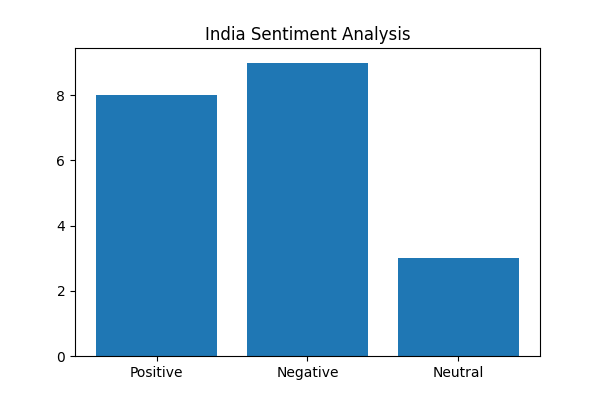
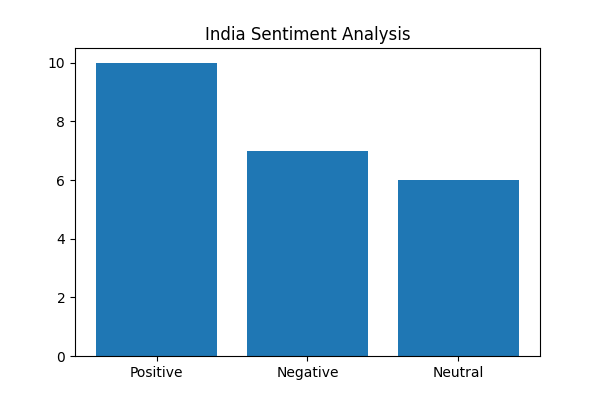
commit

diff --git a/extension/content.js b/extension/content.js
@@ -1,5 +1,26 @@
 console.log("FairSpeakAI loaded");
 
+// 🔥 INDIA FILTER (NEW)
+const indiaKeywords = [
+    "india", "indian", "modi", "delhi", "mumbai",
+    "bangalore", "hyderabad", "chennai", "kolkata"
+];
+
+const indiaHashtags = [
+    "#india", "#modi", "#indiapolitics",
+    "#indiafirst", "#bharat", "#indianarmy", "#indiavspak"
+];
+
+function isIndiaRelated(text) {
+    text = text.toLowerCase();
+
+    const keywordMatch = indiaKeywords.some(k => text.includes(k));
+    const hashtagMatch = indiaHashtags.some(h => text.includes(h));
+
+    return keywordMatch || hashtagMatch;
+}
+
+
 // Track processed tweets
 const processedTweets = new WeakSet();
 
@@ -9,7 +30,7 @@ let positive = 0;
 let neutral = 0;
 let negative = 0;
 
-// 🚀 Create dashboard UI (IMPROVED)
+// 🚀 Dashboard UI
 const dashboard = document.createElement("div");
 dashboard.style.position = "fixed";
 dashboard.style.top = "10px";
@@ -21,7 +42,7 @@ dashboard.style.borderRadius = "12px";
 dashboard.style.zIndex = "9999";
 dashboard.style.fontSize = "14px";
 dashboard.style.boxShadow = "0 0 10px rgba(0,0,0,0.5)";
-dashboard.innerHTML = "🔥 FairSpeakAI Loading...";
+dashboard.innerHTML = "🌍 FairSpeak AI (India Mode)...";
 document.body.appendChild(dashboard);
 
 // 🔄 Update dashboard
@@ -31,15 +52,15 @@ function updateDashboard() {
     const neu = total ? ((neutral / total) * 100).toFixed(1) : 0;
 
     dashboard.innerHTML = `
-    <b>🔥 FairSpeak AI</b><br>
+    <b>🌍 India Sentiment</b><br>
     Total: ${total} <br>
-    🔴 Toxic: ${n}% <br>
+    🔴 Negative: ${n}% <br>
     🟡 Neutral: ${neu}% <br>
     🟢 Positive: ${p}%
     `;
 }
 
-// 🧠 API CALL (WITH DELAY CONTROL)
+// 🧠 Queue system
 let queue = [];
 let isProcessing = false;
 
@@ -51,7 +72,7 @@ function processQueue() {
 
     analyzeTweet(element, text).finally(() => {
         isProcessing = false;
-        setTimeout(processQueue, 300); // 🔥 control API speed
+        setTimeout(processQueue, 300);
     });
 }
 
@@ -118,11 +139,15 @@ function processTweets() {
         if (!tweetElement) return;
 
         if (processedTweets.has(tweetElement)) return;
-        processedTweets.add(tweetElement);
 
         const text = tweet.innerText;
 
-        // 🔥 Add to queue instead of direct call
+        // 🔥 INDIA FILTER (MAIN LOGIC)
+        if (!isIndiaRelated(text)) return;
+
+        processedTweets.add(tweetElement);
+
+        // Add to queue
         queue.push({ element: tweet, text });
     });
 
@@ -132,17 +157,15 @@ function processTweets() {
 // 🚀 Initial run
 processTweets();
 
-// ⏱ Interval reduced (less lag)
+// ⏱ Interval
 setInterval(processTweets, 3000);
 
-// 👀 Smart MutationObserver (optimized)
+// 👀 MutationObserver
 const observer = new MutationObserver((mutations) => {
     let added = false;
 
     mutations.forEach(m => {
-        if (m.addedNodes.length > 0) {
-            added = true;
-        }
+        if (m.addedNodes.length > 0) added = true;
     });
 
     if (added) processTweets();

diff --git a/index.html b/index.html
@@ -6,7 +6,7 @@
 
 <body style="text-align:center; font-family:Arial; background:#111; color:white;">
 
-<h1>🔥 FairSpeak AI - India Sentiment 🇮🇳</h1>
+<h1>🌍 Global Sentiment About India 🇮🇳</h1>
 
 <img id="graph" src="http://127.0.0.1:5000/static/graph.png"
      width="500" style="border-radius:10px; min-height:300px;">
